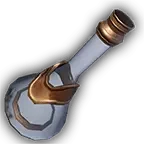
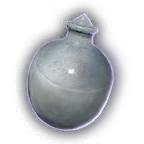
0.0.77

diff --git a/scripts/macros/items/oilFlask.js b/scripts/macros/items/oilFlask.js
@@ -7,6 +7,36 @@ async function item({ speaker, actor, token, character, item, args, scope, workf
     ];
     let selection = await chrisPremades.helpers.dialog("What would you like to do?", choices);
     if (!selection || selection === "cancel") return;
+    async function effectMacroDel() {
+        Sequencer.EffectManager.endEffects({ name: `${token.document.name} Oil Flask` });
+    }
+    const effectData = {
+        'name': "Covered in Oil",
+        'icon': "modules/mba-premades/icons/conditions/muddy.webp",
+        'origin': workflow.item.uuid,
+        'description': `
+            <p>You are covered in oil.</p>
+            <p>If you take any fire damage before the oil dries (after 1 minute), you will take an additional 5 fire damage from the burning oil.</p>
+        `,
+        'duration': {
+            'seconds': 60
+        },
+        'changes': [
+            {
+                'key': 'flags.midi-qol.onUseMacroName',
+                'mode': 0,
+                'value': 'function.mbaPremades.macros.oilFlask.damage,preTargetDamageApplication',
+                'priority': 20
+            }
+        ],
+        'flags': {
+            'effectmacro': {
+                'onDelete': {
+                    'script': chrisPremades.helpers.functionToString(effectMacroDel)
+                }
+            }
+        }
+    };
     if (selection === "splash") {
         let target = workflow.targets.first();
         if (!target) {
@@ -20,7 +50,29 @@ async function item({ speaker, actor, token, character, item, args, scope, workf
         }
         let feature = new CONFIG.Item.documentClass(featureData, { 'parent': actor });
         let [config, options] = chrisPremades.constants.syntheticItemWorkflowOptions([target.uuid]);
-        await MidiQOL.completeItemUse(feature, config, options);
+        await game.messages.get(workflow.itemCardId).delete();
+        let featureWorkflow = await MidiQOL.completeItemUse(feature, config, options);
+        if (featureWorkflow.hitTargets.size) {
+            await chrisPremades.helpers.createEffect(target.actor, effectData);
+        } else {
+            let offsetX = Math.floor(Math.random() * (Math.floor(2) - Math.ceil(0) + 1) + Math.ceil(0));
+            let offsetY = Math.floor(Math.random() * (Math.floor(2) - Math.ceil(0) + 1) + Math.ceil(0));
+            new Sequence()
+
+                .effect()
+                .file("jb2a.throwable.throw.flask.01.black")
+                .attachTo(token)
+                .stretchTo(target, { offset: { x: offsetX, y: offsetY }, gridUnits: true })
+                .waitUntilFinished(-300)
+
+                .effect()
+                .file("jb2a.impact.006.yellow")
+                .attachTo(target, { offset: { x: offsetX, y: offsetY }, gridUnits: true })
+                .scaleToObject(2 * target.document.texture.scaleX)
+                .filter("ColorMatrix", { saturate: 0.5, brightness: -1 })
+
+                .play()
+        }
     }
     if (selection === "shatter") {
         let target = workflow.targets.first();
@@ -35,7 +87,29 @@ async function item({ speaker, actor, token, character, item, args, scope, workf
         }
         let feature = new CONFIG.Item.documentClass(featureData, { 'parent': actor });
         let [config, options] = chrisPremades.constants.syntheticItemWorkflowOptions([target.uuid]);
-        await MidiQOL.completeItemUse(feature, config, options);
+        await game.messages.get(workflow.itemCardId).delete();
+        let featureWorkflow = await MidiQOL.completeItemUse(feature, config, options);
+        if (featureWorkflow.hitTargets.size) {
+            await chrisPremades.helpers.createEffect(target.actor, effectData);
+        } else {
+            let offsetX = Math.floor(Math.random() * (Math.floor(2) - Math.ceil(0) + 1) + Math.ceil(0));
+            let offsetY = Math.floor(Math.random() * (Math.floor(2) - Math.ceil(0) + 1) + Math.ceil(0));
+            new Sequence()
+
+                .effect()
+                .file("jb2a.throwable.throw.flask.01.black")
+                .attachTo(token)
+                .stretchTo(target, { offset: { x: offsetX, y: offsetY }, gridUnits: true })
+                .waitUntilFinished(-300)
+
+                .effect()
+                .file("jb2a.impact.006.yellow")
+                .attachTo(target, { offset: { x: offsetX, y: offsetY }, gridUnits: true })
+                .scaleToObject(2 * target.document.texture.scaleX)
+                .filter("ColorMatrix", { saturate: 0.5, brightness: -1 })
+
+                .play()
+        }
     }
     if (selection === "pour") {
         let templateData = {
@@ -64,6 +138,12 @@ async function item({ speaker, actor, token, character, item, args, scope, workf
         new Sequence()
 
             .effect()
+            .file("jb2a.throwable.throw.flask.01.black")
+            .attachTo(token)
+            .stretchTo(template)
+            .waitUntilFinished(-300)
+
+            .effect()
             .delay(100)
             .file('jb2a.grease.dark_brown')
             .atLocation(template)
@@ -88,7 +168,7 @@ async function item({ speaker, actor, token, character, item, args, scope, workf
             'icon': workflow.item.img,
             'origin': workflow.item.uuid,
             'duration': {
-                'turns': 1
+                'seconds': 3600 // huh?
             },
             'changes': [
                 {
@@ -111,29 +191,148 @@ async function item({ speaker, actor, token, character, item, args, scope, workf
         };
         await chrisPremades.helpers.createEffect(workflow.actor, templateEffectData);
     }
-    let oilItem = workflow.actor.items.filter(i => i.name === "Oil Flask")[0];
-    if (oilItem.system.quantity > 1) {
-        oilItem.update({ "system.quantity": oilItem.system.quantity - 1 });
+    let oilFlaskItem = workflow.actor.items.filter(i => i.name === "Oil Flask")[0];
+    if (oilFlaskItem.system.quantity > 1) {
+        oilFlaskItem.update({ "system.quantity": oilFlaskItem.system.quantity - 1 });
     } else {
-        workflow.actor.deleteEmbeddedDocuments("Item", [oilItem.id]);
+        workflow.actor.deleteEmbeddedDocuments("Item", [oilFlaskItem.id]);
+    }
+    let emptyFlaskItem = workflow.actor.items.filter(i => i.name === "Empty Flask");
+    if (!emptyFlaskItem.length) {
+        const itemData = await chrisPremades.helpers.getItemFromCompendium('mba-premades.MBA Items', 'Empty Flask', false);
+        if (!itemData) {
+            ui.notifications.warn("Unable to find item in compenidum! (Empty Flask)");
+            return
+        }
+        await workflow.actor.createEmbeddedDocuments("Item", [itemData]);
+    } else {
+        emptyFlaskItem[0].update({ "system.quantity": emptyFlaskItem[0].system.quantity + 1 });
     }
 }
 
-async function splash() {
+async function animation({ speaker, actor, token, character, item, args, scope, workflow }) {
+    let target = workflow.targets.first();
+    new Sequence()
 
+        .effect()
+        .file("jb2a.throwable.throw.flask.01.black")
+        .attachTo(token)
+        .stretchTo(target)
+        .waitUntilFinished(-300)
+
+        .effect()
+        .file("jb2a.impact.006.yellow")
+        .attachTo(target)
+        .scaleToObject(2 * target.document.texture.scaleX)
+        .filter("ColorMatrix", { saturate: 0.5, brightness: -1 })
+
+        .effect()
+        .file("jb2a.grease.dark_grey.loop")
+        .attachTo(target, { offset: { x: 0.25 * target.document.width, y: 0.3 * target.document.width }, gridUnits: true, followRotation: false })
+        .randomRotation()
+        .scaleToObject(0.5)
+        .opacity(0.8)
+        .filter("ColorMatrix", { brightness: -0.5 })
+        .fadeIn(300)
+        .fadeOut(500)
+        .scaleIn(0, 1500, { ease: "easeOutCubic" })
+        .scaleOut(0, 1500, { ease: "easeOutCubic" })
+        .zIndex(0.1)
+        .mask(target)
+        .persist()
+        .name(`${target.document.name} Oil Flask`)
+
+        .effect()
+        .file("jb2a.grease.dark_grey.loop")
+        .attachTo(target, { offset: { x: -0.4 * target.document.width, y: 0 * target.document.width }, gridUnits: true, followRotation: false })
+        .randomRotation()
+        .scaleToObject(0.5)
+        .opacity(0.8)
+        .filter("ColorMatrix", { brightness: -0.5 })
+        .fadeIn(300)
+        .fadeOut(500)
+        .scaleIn(0, 1500, { ease: "easeOutCubic" })
+        .scaleOut(0, 1500, { ease: "easeOutCubic" })
+        .zIndex(0.1)
+        .mask(target)
+        .persist()
+        .name(`${target.document.name} Oil Flask`)
+
+        .effect()
+        .file("jb2a.grease.dark_grey.loop")
+        .attachTo(target, { offset: { x: 0.15 * target.document.width, y: -0.5 * target.document.width }, gridUnits: true, followRotation: false })
+        .randomRotation()
+        .scaleToObject(0.5)
+        .opacity(0.8)
+        .filter("ColorMatrix", { brightness: -0.5 })
+        .fadeIn(300)
+        .fadeOut(500)
+        .scaleIn(0, 1500, { ease: "easeOutCubic" })
+        .scaleOut(0, 1500, { ease: "easeOutCubic" })
+        .zIndex(0.1)
+        .mask(target)
+        .persist()
+        .name(`${target.document.name} Oil Flask`)
+
+        .play()
 }
 
-async function shatter() {
+async function damage({ speaker, actor, token, character, item, args, scope, workflow }) {
+    let effect = await chrisPremades.helpers.findEffect(actor, "Covered in Oil");
+    if (!effect) return;
+    let typeCheck = workflow.damageDetail?.some(i => i.type === "fire");
+    if (!typeCheck) return;
+    let damageFormula = '5[fire]';
+    let damageRoll = await new Roll(damageFormula).roll({ 'async': true });
+    damageRoll.toMessage({
+        rollMode: 'roll',
+        speaker: { 'alias': name },
+        flavor: 'Oil Flask: Burning Oil'
+    });
+    let damageTotal = damageRoll.total;
+    let hasDR = chrisPremades.helpers.checkTrait(actor, "dr", "fire");
+    if (hasDR) damageTotal = Math.floor(damageTotal / 2);
+    workflow.damageItem.damageDetail[0].push({
+        'damage': damageTotal,
+        'type': "fire"
+    });
+    workflow.damageItem.totalDamage += damageTotal;
+    workflow.damageItem.appliedDamage += damageTotal;
+    workflow.damageItem.hpDamage += damageTotal;
+    new Sequence()
 
-}
+        .wait(1600)
 
-async function pour() {
+        .effect()
+        .file("jb2a.impact.fire.01.orange.0")
+        .attachTo(token)
+        .scaleToObject(1.5)
+        .mask()
+        .waitUntilFinished(-2000)
 
+        .effect()
+        .file("animated-spell-effects-cartoon.fire.19")
+        .attachTo(token)
+        .scaleToObject(1.8)
+
+        .effect()
+        .file("animated-spell-effects-cartoon.fire.15")
+        .attachTo(token)
+        .scaleToObject(1.6)
+        .mask()
+        .playbackRate(0.9)
+
+        /*
+        .thenDo(function () {
+            chrisPremades.helpers.removeEffect(effect);
+        })
+        */
+
+        .play()
 }
 
 export let oilFlask = {
     'item': item,
-    'splash': splash,
-    'shatter': shatter,
-    'pour': pour
+    'animation': animation,
+    'damage': damage
 }

diff --git a/scripts/macros/items/hoodedLantern.js b/scripts/macros/items/hoodedLantern.js
@@ -292,7 +292,6 @@ async function light({ speaker, actor, token, character, item, args, scope, work
             }
         }
     };
-    let oilItem = workflow.actor.items.filter(i => i.name === "Oil Flask")[0];
     new Sequence()
 
         .effect()
@@ -313,14 +312,27 @@ async function light({ speaker, actor, token, character, item, args, scope, work
 
         .thenDo(function () {
             chrisPremades.helpers.createEffect(workflow.actor, effectData);
-            if (oilItem.system.quantity > 1) {
-                oilItem.update({ "system.quantity": oilItem.system.quantity - 1 });
-            } else {
-                workflow.actor.deleteEmbeddedDocuments("Item", [oilItem.id]);
-            }
         })
 
         .play()
+
+    let oilFlaskItem = workflow.actor.items.filter(i => i.name === "Oil Flask")[0];
+    if (oilFlaskItem.system.quantity > 1) {
+        oilFlaskItem.update({ "system.quantity": oilFlaskItem.system.quantity - 1 });
+    } else {
+        workflow.actor.deleteEmbeddedDocuments("Item", [oilFlaskItem.id]);
+    }
+    let emptyFlaskItem = workflow.actor.items.filter(i => i.name === "Empty Flask");
+    if (!emptyFlaskItem.length) {
+        const itemData = await chrisPremades.helpers.getItemFromCompendium('mba-premades.MBA Items', 'Empty Flask', false);
+        if (!itemData) {
+            ui.notifications.warn("Unable to find item in compenidum! (Empty Flask)");
+            return
+        }
+        await workflow.actor.createEmbeddedDocuments("Item", [itemData]);
+    } else {
+        emptyFlaskItem[0].update({ "system.quantity": emptyFlaskItem[0].system.quantity + 1 });
+    }
 }
 
 export let hoodedLantern = {

diff --git a/scripts/macros/spells/level1/shield.js b/scripts/macros/spells/level1/shield.js
@@ -84,7 +84,7 @@ async function item({ speaker, actor, token, character, item, args, scope, workf
 }
 
 async function trigger({ speaker, actor, token, character, item, args, scope, workflow }) {
-    if (!workflow.item.name.includes("Magic Missile Bolt")) return;
+    if (!workflow.item.name.includes("Magic Missile: Bolt")) return;
     workflow.damageItem.hpDamage = 0;
 }
 
